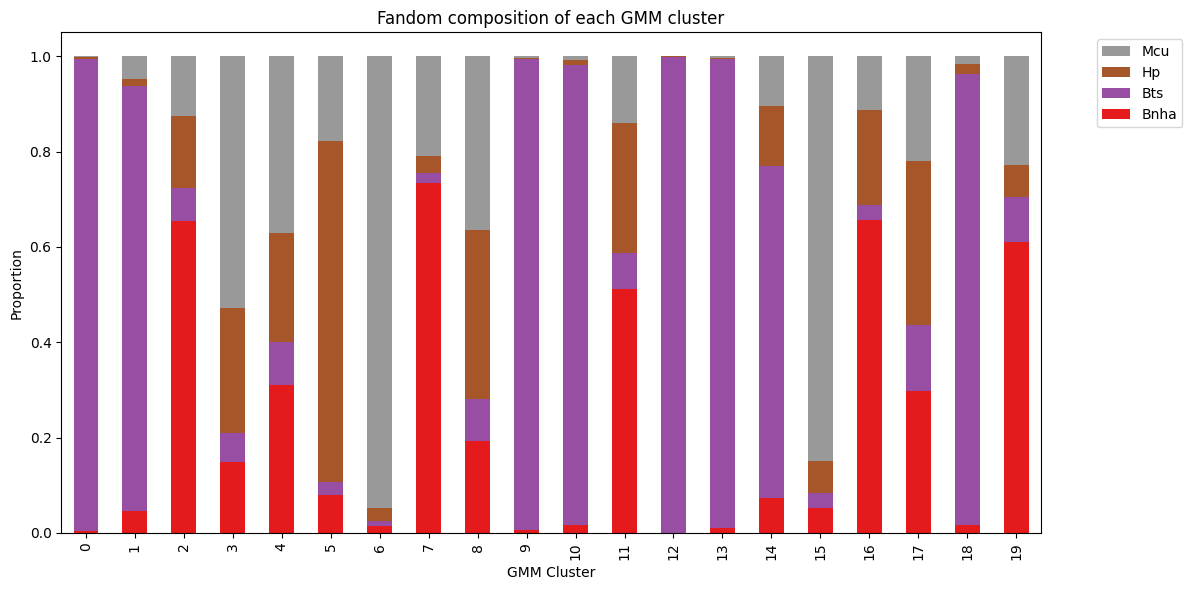
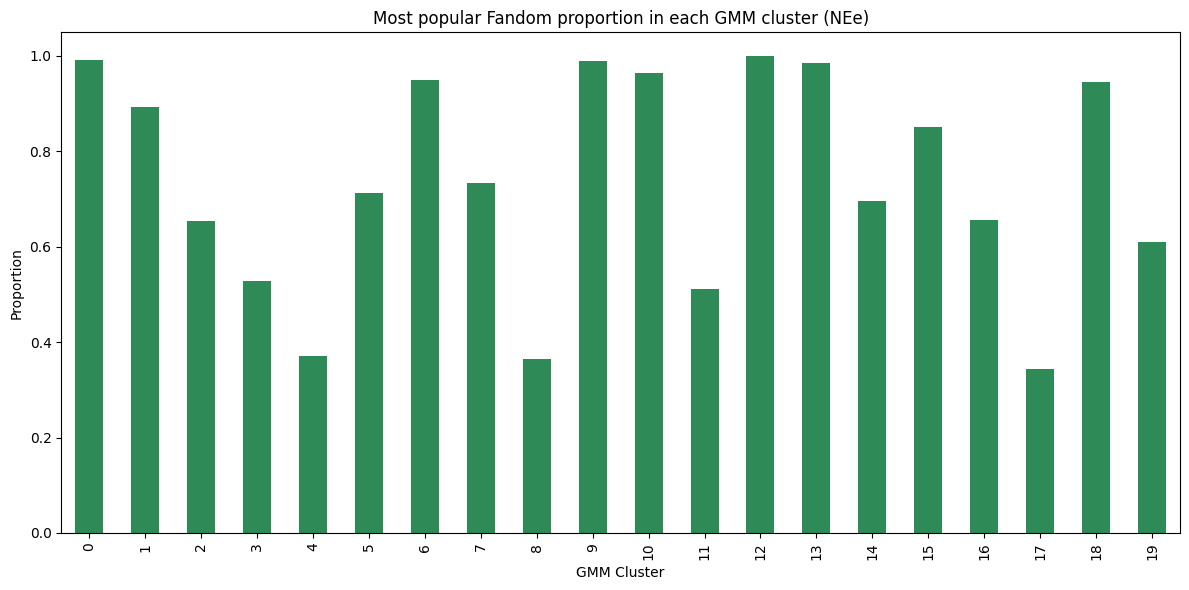
finalize

diff --git a/src/utils/clustering.py b/src/utils/clustering.py
@@ -90,18 +90,18 @@ def plot_cluster(topic_df: pd.DataFrame,
                  cluster_col: str, 
                  category_col: str, 
                  output_path: str,
-                 colormap: str):
+                 type: str):
     """Plot the distribution of a category (e.g., Fandom or AU) across clusters."""
     cluster_counts = topic_df.groupby([cluster_col, category_col]).size().unstack().fillna(0)
     cluster_props = cluster_counts.div(cluster_counts.sum(axis=1), axis=0)
 
-    ax = cluster_props.plot(kind='bar', stacked=True, figsize=(12, 6), colormap=colormap)
-    plt.title(f'{category_col} composition of each GMM cluster')
+    dominant_props = cluster_props.max(axis=1)
+
+    ax = dominant_props.plot(kind='bar', figsize=(12, 6), color='seagreen')
+    plt.title(f'Most popular {category_col} proportion in each GMM cluster ({type})')
     plt.xlabel('GMM Cluster')
     plt.ylabel('Proportion')
 
-    handles, labels = ax.get_legend_handles_labels()
-    ax.legend(handles[::-1], labels[::-1], bbox_to_anchor=(1.05, 1))
     plt.tight_layout()
     plt.savefig(output_path, bbox_inches='tight')
     plt.close()
@@ -123,14 +123,9 @@ def run_clustering_pipeline(model,
 
     df, gmm_output = cluster(df, topic_cols, cluster_counts)
 
-    colormapping = {
-        'Fandom': 'Set1',
-        'AU': 'Set2'
-    }
-
-    for category, color in colormapping.items():
+    for category in ['AU', 'Fandom']:
         cluster_col = df.columns[-1]  # last column is the best cluster label
         output_path = os.path.join(out, f"{type}_{category}_{norm_mode}_composition.png")
-        plot_cluster(df, cluster_col, category, output_path, color)
+        plot_cluster(df, cluster_col, category, output_path, type)
 
     return df, gmm_output, ent_summary

diff --git a/src/8_shap.py b/src/8_shap.py
@@ -9,6 +9,7 @@ def main():
     model_extras = os.path.join("obj", "model_extras")
     models = os.path.join("obj", "models")
     plots = os.path.join("obj", "plots")
+    df = joblib.load(os.path.join("obj", "data", "NEe_l1_final.pkl"))
 
     # define pairs for future plotting
     au_pairs = {
